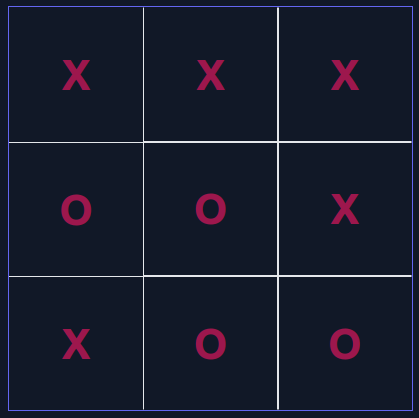
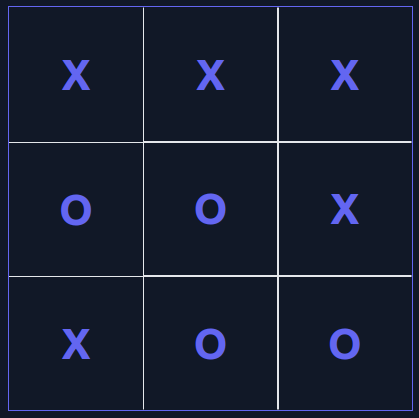
feat: work with style

diff --git a/src/components/organisms/TicTacToeGameBoard.vue b/src/components/organisms/TicTacToeGameBoard.vue
@@ -1,7 +1,7 @@
 <template>
   <div>
     <div v-if="showBtn" class="font-silk text-center mb-8">
-      <div class="text-white text-5xl p-2 bg-gradient-to-r from-pink-800 to-indigo-600">Kółko i krzyżyk</div>
+      <div class="text-white text-5xl p-2 bg-gradient-to-r from-sky-500 to-indigo-500">Kółko i krzyżyk</div>
       <button class="border p-1 text-white text-3xl my-8" @click="startGame">START</button>
       <img src="../images/tictac.png" class="mx-auto w-[480px] h-[480px]"/>
     </div>

diff --git a/src/components/atoms/TicTacToe.vue b/src/components/atoms/TicTacToe.vue
@@ -1,5 +1,5 @@
 <template>
-  <div class="w-[450px] h-[450px] text-pink-800 grid grid-cols-3 grid-rows-3 pt-4">
+  <div class="w-[450px] h-[450px] text-indigo-500 grid grid-cols-3 grid-rows-3 pt-4">
     <div class="flex justify-center items-center text-5xl font-bold">X</div>
     <div class="border border-t-transparent flex justify-center items-center text-5xl font-bold">X</div>
     <div class="border border-r-transparent border-t-transparent flex justify-center items-center text-5xl font-bold">
